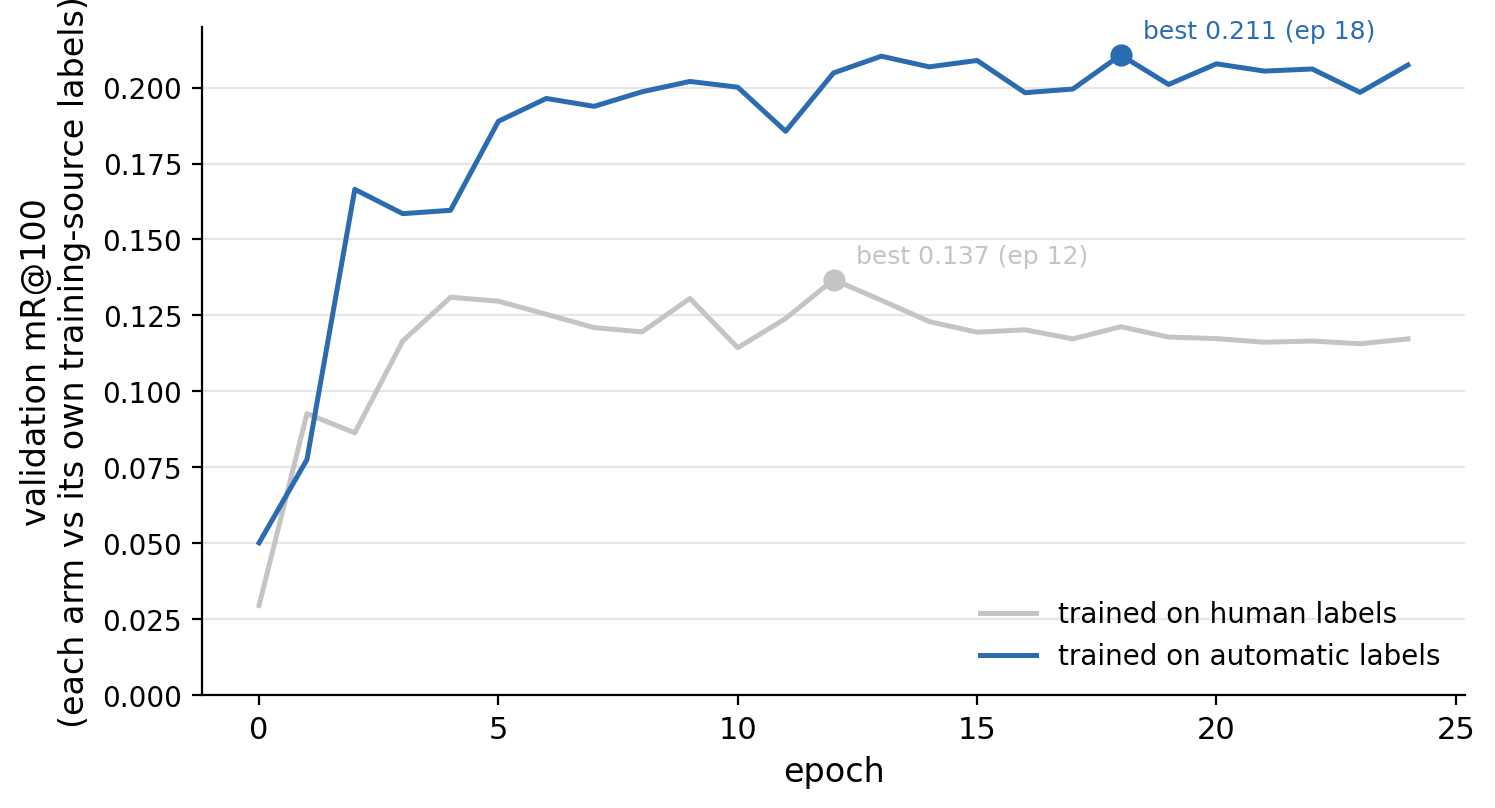
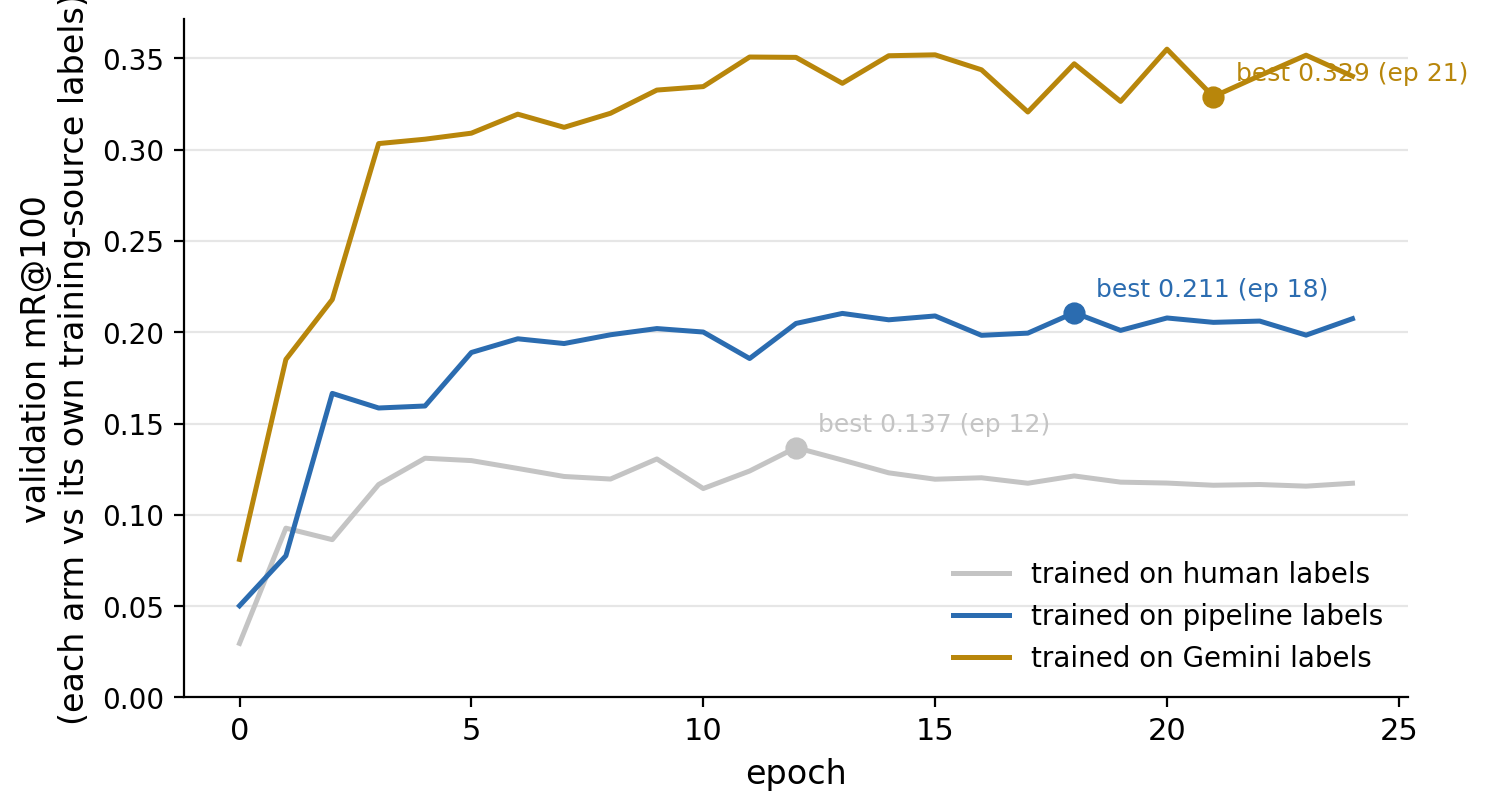
Measure what each vision-language model costs to run as an annotator
Accuracy is half of a deployment decision; the other half is what a pass
over the dataset costs in wall time and tokens. Reasoning models spend most
of their output budget deliberating before they answer, which never appears
in the response text but is billed and waited for, so it has to be measured
rather than inferred from reply length.

eval/vlm_cost_benchmark.py runs the same images, prompts and settings
through each model so the only variable is the model, and reports tokens
rather than currency because per-token prices change.

Also refreshes the benchmark training-curve figure.

diff --git a/eval/vlm_cost_benchmark.py b/eval/vlm_cost_benchmark.py
@@ -1,0 +1,146 @@
+"""Measure what each vision-language model costs to run as an annotator.
+
+Accuracy is only half of a deployment decision; the other half is what a pass
+over a dataset costs in wall time and tokens. Reasoning models spend most of
+their output budget thinking before they answer, which does not show up in
+the answer text at all but is billed and waited for, so it has to be measured
+rather than inferred from response length.
+
+Same images, same prompts, same settings for every model, so the only
+variable is the model. Tokens are reported rather than currency because
+per-token prices change; multiply by whatever the current rate is.
+
+    python eval/vlm_cost_benchmark.py --n 8 --models gemini-3.5-flash,gemini-3.1-pro-preview
+"""
+
+from __future__ import annotations
+
+import argparse
+import base64
+import json
+import re
+import statistics as st
+import time
+import urllib.error
+import urllib.request
+from pathlib import Path
+
+ROOT = Path(__file__).resolve().parents[1]
+URL = ("https://generativelanguage.googleapis.com/v1beta/models/"
+       "{model}:generateContent?key={key}")
+
+
+def api_key() -> str:
+    env = (ROOT / ".env").read_text(encoding="utf-8")
+    m = re.search(r"GEMINI_API_KEY=(\S+)", env)
+    if not m:
+        raise SystemExit("no GEMINI_API_KEY in .env")
+    return m.group(1)
+
+
+def one_call(model: str, prompt: str, image: Path, key: str, max_tokens: int):
+    b64 = base64.b64encode(image.read_bytes()).decode("ascii")
+    body = json.dumps({
+        "contents": [{"parts": [
+            {"inline_data": {"mime_type": "image/jpeg", "data": b64}},
+            {"text": prompt}]}],
+        "generationConfig": {"temperature": 0, "maxOutputTokens": max_tokens},
+    }).encode("utf-8")
+    req = urllib.request.Request(URL.format(model=model, key=key), data=body,
+                                 headers={"Content-Type": "application/json"})
+    t0 = time.time()
+    with urllib.request.urlopen(req, timeout=600) as r:
+        d = json.loads(r.read().decode("utf-8"))
+    dt = time.time() - t0
+    u = d.get("usageMetadata", {})
+    cand = d["candidates"][0]
+    txt = "\n".join(p.get("text", "")
+                    for p in cand.get("content", {}).get("parts", []))
+    return {
+        "seconds": dt,
+        "prompt_tokens": u.get("promptTokenCount", 0),
+        "thought_tokens": u.get("thoughtsTokenCount", 0),
+        "answer_tokens": u.get("candidatesTokenCount", 0),
+        "total_tokens": u.get("totalTokenCount", 0),
+        "finish": cand.get("finishReason"),
+        "model_version": d.get("modelVersion"),
+        "chars": len(txt),
+    }
+
+
+def main():
+    ap = argparse.ArgumentParser()
+    ap.add_argument("--models",
+                    default="gemini-3.5-flash,gemini-3.1-pro-preview")
+    ap.add_argument("--prompts", default="outputs/vlm_pilot/prompts.jsonl")
+    ap.add_argument("--n", type=int, default=8)
+    ap.add_argument("--max-tokens", type=int, default=65536,
+                    dest="max_tokens")
+    ap.add_argument("--dataset-images", type=int, default=836,
+                    dest="dataset_images",
+                    help="scale the per-image cost to a full pass")
+    ap.add_argument("--out", default="outputs/vlm_cost_benchmark.json")
+    args = ap.parse_args()
+
+    key = api_key()
+    prompts = [json.loads(l) for l in
+               Path(args.prompts).read_text(encoding="utf-8").splitlines()
+               if l.strip()][:args.n]
+    models = [m.strip() for m in args.models.split(",") if m.strip()]
+
+    results = {}
+    for model in models:
+        rows = []
+        print(f"\n=== {model} on {len(prompts)} images ===", flush=True)
+        for i, p in enumerate(prompts, 1):
+            try:
+                r = one_call(model, p["prompt"], ROOT / p["image"], key,
+                             args.max_tokens)
+            except urllib.error.HTTPError as e:
+                print(f"  [{i}] HTTP {e.code}: {e.read().decode()[:120]}")
+                continue
+            rows.append(r)
+            print(f"  [{i}/{len(prompts)}] {r['seconds']:5.1f}s  "
+                  f"think {r['thought_tokens']:>6}  answer {r['answer_tokens']:>5}  "
+                  f"{r['finish']}", flush=True)
+        if not rows:
+            continue
+        med = lambda k: st.median(x[k] for x in rows)
+        tot = lambda k: sum(x[k] for x in rows)
+        per_image_tokens = tot("total_tokens") / len(rows)
+        results[model] = {
+            "n": len(rows),
+            "model_version": rows[0]["model_version"],
+            "median_seconds": med("seconds"),
+            "mean_seconds": st.mean(x["seconds"] for x in rows),
+            "median_thought_tokens": med("thought_tokens"),
+            "median_answer_tokens": med("answer_tokens"),
+            "median_prompt_tokens": med("prompt_tokens"),
+            "tokens_per_image": per_image_tokens,
+            "truncated": sum(1 for x in rows if x["finish"] == "MAX_TOKENS"),
+            "projected_hours_for_dataset":
+                st.mean(x["seconds"] for x in rows) * args.dataset_images / 3600,
+            "projected_tokens_for_dataset":
+                per_image_tokens * args.dataset_images,
+        }
+
+    print(f"\n{'model':28}{'s/img':>8}{'think':>8}{'answer':>8}"
+          f"{'tok/img':>9}{'hours':>8}{'Mtok':>8}")
+    for m, r in results.items():
+        print(f"{m:28}{r['median_seconds']:8.1f}{r['median_thought_tokens']:8.0f}"
+              f"{r['median_answer_tokens']:8.0f}{r['tokens_per_image']:9.0f}"
+              f"{r['projected_hours_for_dataset']:8.2f}"
+              f"{r['projected_tokens_for_dataset']/1e6:8.2f}")
+    print(f"\nprojections are for a {args.dataset_images}-image pass, "
+          f"sequential, no concurrency")
+
+    out = Path(args.out)
+    out.parent.mkdir(parents=True, exist_ok=True)
+    out.write_text(json.dumps(
+        {"dataset_images": args.dataset_images, "images_sampled": args.n,
+         "models": results}, indent=2), encoding="utf-8")
+    print(f"wrote {out}")
+
+
+if __name__ == "__main__":
+    main()
